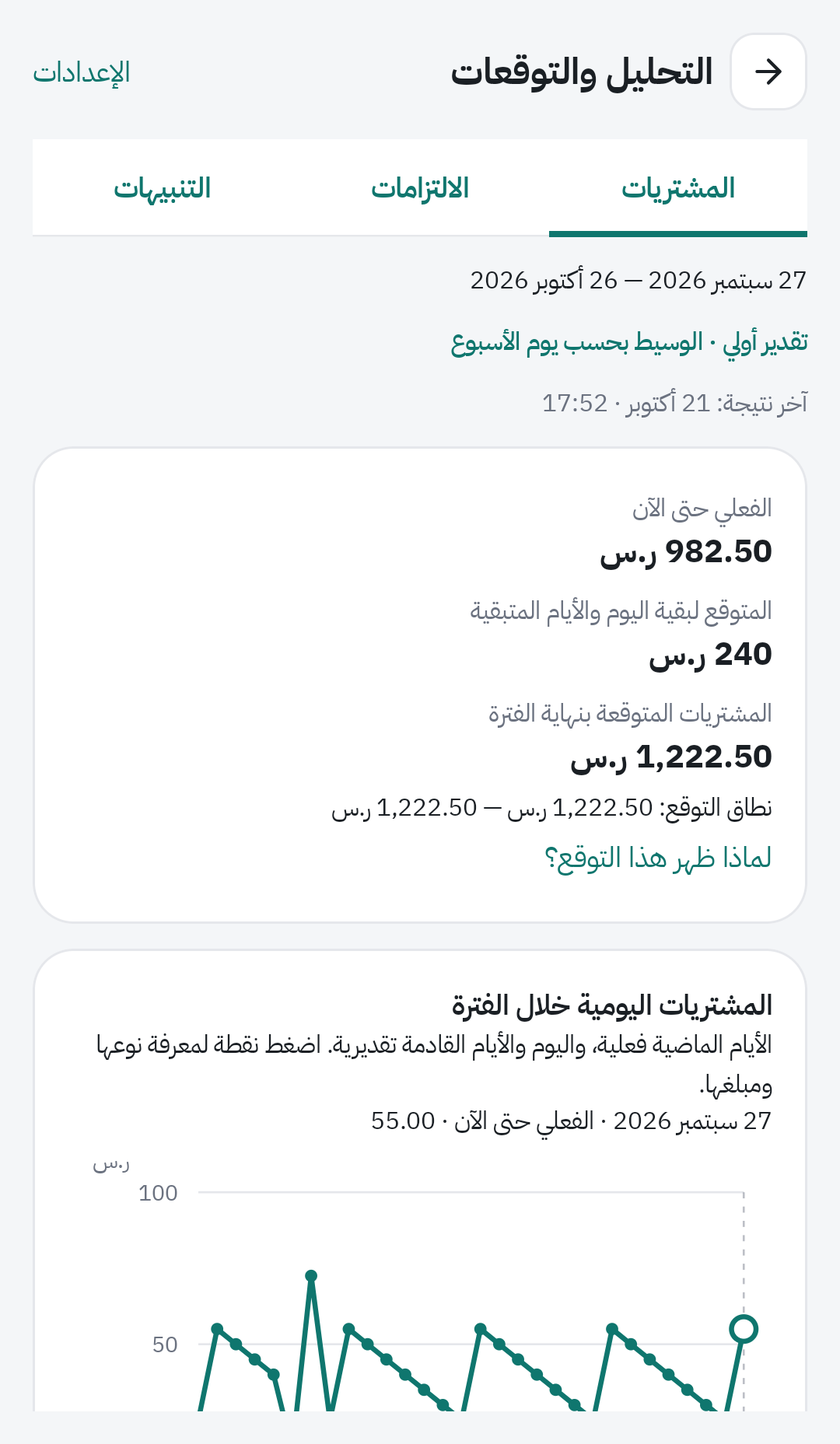
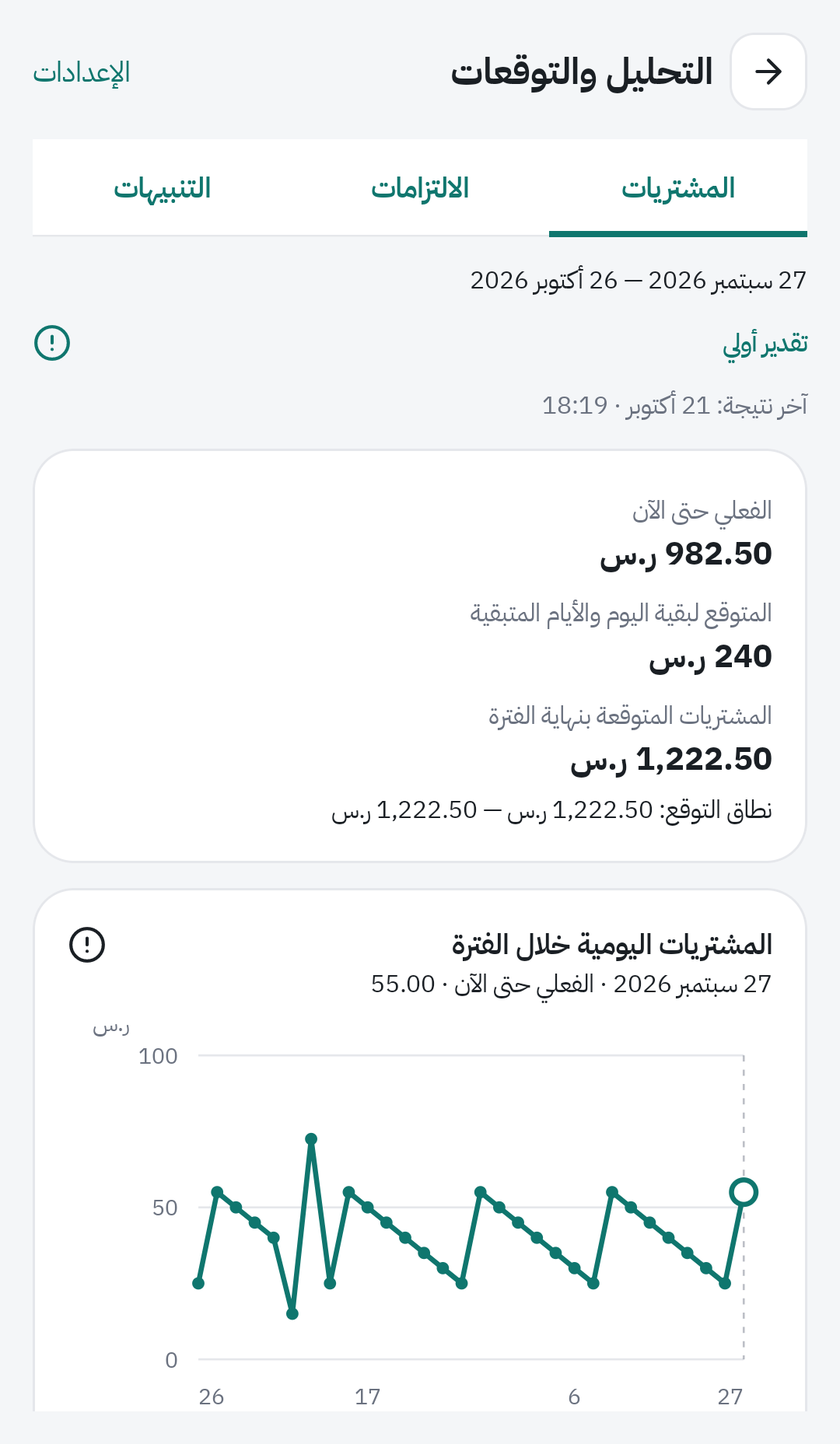
fix(lab): show forecast explanations as contextual help

diff --git a/lab/beta/src/replica/kotlin/com/baraa/masroof/lab/replica/presentation/analytics/LabAnalyticsScreen.kt b/lab/beta/src/replica/kotlin/com/baraa/masroof/lab/replica/presentation/analytics/LabAnalyticsScreen.kt
@@ -61,13 +61,21 @@ val LocalLabAnalyticsCardsEnabled = staticCompositionLocalOf { true }
 @Composable private fun Status(state: AnalysisUiState) {
     val label = when {
         state.unavailable -> R.string.lab_analysis_failed
+        state.snapshot == null -> R.string.lab_analysis_preparing
         state.updating -> R.string.lab_analysis_updating
         state.snapshot?.status != "READY" -> R.string.lab_analysis_insufficient
         state.snapshot.quality.blocked -> R.string.lab_analysis_quality_warning
         state.snapshot.method == "WEEKDAY_MEDIAN" -> R.string.lab_analysis_initial
         else -> R.string.lab_analysis_ready
     }
-    Text(stringResource(label), style = MaterialTheme.typography.labelMedium, color = MaterialTheme.colorScheme.primary)
+    val guidance = when (label) {
+        R.string.lab_analysis_insufficient -> R.string.lab_analysis_need_data
+        R.string.lab_analysis_initial, R.string.lab_analysis_ready -> R.string.lab_analysis_forecast_hint
+        R.string.lab_analysis_quality_warning -> R.string.lab_analysis_quality_hint
+        else -> null
+    }
+    MasroofGuidanceLabel(stringResource(label), guidance?.let { stringResource(it) },
+        style = MaterialTheme.typography.labelMedium, contentColor = MaterialTheme.colorScheme.primary)
     state.snapshot?.let { Text(stringResource(R.string.lab_analysis_updated, timestamp(it.issuedAt)),
         style = MaterialTheme.typography.bodySmall, color = MaterialTheme.colorScheme.onSurfaceVariant) }
 }
@@ -78,7 +86,6 @@ val LocalLabAnalyticsCardsEnabled = staticCompositionLocalOf { true }
     val scope = rememberCoroutineScope()
     val target by AnalyticsNavigation.target.collectAsState()
     var tab by rememberSaveable { mutableIntStateOf(if (target.isNullOrEmpty()) 0 else 2) }
-    var explanation by rememberSaveable { mutableStateOf(false) }
     var settings by rememberSaveable { mutableStateOf(false) }
     var editing by rememberSaveable { mutableStateOf<String?>(null) }
     var saving by remember { mutableStateOf(false) }
@@ -97,7 +104,7 @@ val LocalLabAnalyticsCardsEnabled = staticCompositionLocalOf { true }
         pendingTarget = null
     }
     BackHandler(enabled = !saving) {
-        when { editing != null -> editing = null; settings -> settings = false; explanation -> explanation = false; else -> onBack() }
+        when { editing != null -> editing = null; settings -> settings = false; else -> onBack() }
     }
     BackHandler(enabled = saving) { }
     val candidate = state.snapshot?.candidates?.firstOrNull { it.key == editing }
@@ -122,10 +129,6 @@ val LocalLabAnalyticsCardsEnabled = staticCompositionLocalOf { true }
         return
     }
     if (settings) { Preferences(workflow, state, onBack = { settings = false }); return }
-    if (explanation) {
-        Explanation(state, onBack = { explanation = false }, onOpenTransaction = onOpenTransaction)
-        return
-    }
     MasroofSecondaryScaffold(stringResource(R.string.lab_analysis_title), onBack,
         stringResource(R.string.lab_analysis_back), actions = {
             MasroofTextButton(onClick = { settings = true }) { Text(stringResource(R.string.lab_analysis_settings)) }
@@ -142,9 +145,9 @@ val LocalLabAnalyticsCardsEnabled = staticCompositionLocalOf { true }
                 Status(state)
                 if (state.unavailable) MasroofTextButton(onClick = workflow::request) { Text(stringResource(R.string.lab_replica_dashboard_retry)) }
                 when (tab) {
-                    0 -> Purchases(state, workflow, onWhy = { explanation = true })
+                    0 -> Purchases(state, workflow, onOpenTransaction)
                     1 -> {
-                        Text(stringResource(R.string.lab_analysis_commitments_hint), style = MaterialTheme.typography.bodySmall)
+                        MasroofGuidanceLabel(stringResource(R.string.lab_analysis_commitments), stringResource(R.string.lab_analysis_commitments_hint))
                         state.snapshot?.dues?.forEach { due ->
                             FocusAnalysisItem(focusedAlert == "due:${due.id}:${due.day}", { focusedAlert = null }) {
                             MasroofCard {
@@ -176,7 +179,7 @@ val LocalLabAnalyticsCardsEnabled = staticCompositionLocalOf { true }
                         }
                     }
                     else -> {
-                        Text(stringResource(R.string.lab_analysis_alerts_hint), style = MaterialTheme.typography.bodySmall)
+                        MasroofGuidanceLabel(stringResource(R.string.lab_analysis_alerts), stringResource(R.string.lab_analysis_alerts_hint))
                         if (state.alerts.isEmpty()) Text(stringResource(R.string.lab_analysis_no_alerts))
                         state.alerts.forEach { alert ->
                             FocusAnalysisItem(focusedAlert == alert.id, { focusedAlert = null }) {
@@ -230,27 +233,25 @@ val LocalLabAnalyticsCardsEnabled = staticCompositionLocalOf { true }
     return state.alerts.count { !it.read && it.snoozedUntil <= System.currentTimeMillis() }
 }
 
-@Composable private fun Purchases(state: AnalysisUiState, workflow: LabAnalyticsWorkflow, onWhy: () -> Unit) {
+@Composable private fun Purchases(state: AnalysisUiState, workflow: LabAnalyticsWorkflow, onOpenTransaction: (String) -> Unit) {
     val s = state.snapshot
-    MasroofCard {
+    if (s != null) MasroofCard {
         s?.let {
             Amount(stringResource(R.string.lab_analysis_actual), it.actual)
             it.remaining?.let { amount -> Amount(stringResource(R.string.lab_analysis_remaining), amount) }
             it.total?.let { amount -> Amount(stringResource(R.string.lab_analysis_expected_total), amount) }
             if (it.lower != null && it.upper != null) Text(stringResource(R.string.lab_analysis_range,
                 formatLocalizedMoney(analysisAmount(it.lower)), formatLocalizedMoney(analysisAmount(it.upper))), style = MaterialTheme.typography.bodySmall)
-            else Text(stringResource(R.string.lab_analysis_no_range), style = MaterialTheme.typography.bodySmall)
+            else if (it.total != null) MasroofGuidanceLabel(stringResource(R.string.lab_analysis_range_unavailable), stringResource(R.string.lab_analysis_no_range))
             if (state.preferences.budget != null) Amount(stringResource(R.string.lab_analysis_budget), state.preferences.budget)
             if (workflow.budgetStatus() == "NEAR") Text(stringResource(R.string.lab_analysis_near), color = MaterialTheme.colorScheme.primary)
         }
-        if (s?.total == null) Text(stringResource(R.string.lab_analysis_need_data))
-        MasroofTextButton(onClick = onWhy) { Text(stringResource(R.string.lab_analysis_why)) }
     }
     if (s != null) {
         val points = remember(s) { s.chart() }
         if (points.isNotEmpty()) MasroofCard {
-            Text(stringResource(R.string.lab_analysis_chart), style = MaterialTheme.typography.titleSmall)
-            Text(stringResource(R.string.lab_analysis_chart_hint), style = MaterialTheme.typography.bodySmall)
+            MasroofGuidanceLabel(stringResource(R.string.lab_analysis_chart), stringResource(R.string.lab_analysis_chart_hint),
+                style = MaterialTheme.typography.titleSmall, contentColor = MaterialTheme.colorScheme.onSurface)
             var selected by rememberSaveable(s.periodStart) { mutableIntStateOf(0) }
             val index = selected.coerceIn(points.indices)
             val labels = points.map { "${day(it.day)} · ${stringResource(if (it.expected) R.string.lab_analysis_estimated else R.string.lab_analysis_actual)} · ${it.amount}" }
@@ -261,13 +262,10 @@ val LocalLabAnalyticsCardsEnabled = staticCompositionLocalOf { true }
                 currencyLabel = stringResource(R.string.lab_analysis_sar))
         }
     }
-    MasroofCard {
-        Text(stringResource(R.string.lab_analysis_scope), style = MaterialTheme.typography.bodySmall)
-        Text(stringResource(R.string.lab_analysis_local), style = MaterialTheme.typography.bodySmall, color = MaterialTheme.colorScheme.onSurfaceVariant)
-    }
+    s?.let { DataQuality(it, onOpenTransaction) }
     if (state.history.isNotEmpty()) MasroofCard {
-        Text(stringResource(R.string.lab_analysis_history), style = MaterialTheme.typography.titleSmall)
-        Text(stringResource(R.string.lab_analysis_history_hint), style = MaterialTheme.typography.bodySmall)
+        MasroofGuidanceLabel(stringResource(R.string.lab_analysis_history), stringResource(R.string.lab_analysis_history_hint),
+            style = MaterialTheme.typography.titleSmall, contentColor = MaterialTheme.colorScheme.onSurface)
         state.history.take(8).forEach { past ->
             Text(timestamp(past.issuedAt), style = MaterialTheme.typography.bodySmall)
             past.total?.let { Amount(stringResource(R.string.lab_analysis_expected_total), it) }
@@ -276,46 +274,42 @@ val LocalLabAnalyticsCardsEnabled = staticCompositionLocalOf { true }
     }
 }
 
-@Composable private fun Explanation(state: AnalysisUiState, onBack: () -> Unit, onOpenTransaction: (String) -> Unit) {
-    MasroofSecondaryScaffold(stringResource(R.string.lab_analysis_why), onBack, stringResource(R.string.lab_analysis_back)) { modifier ->
-        Column(modifier.verticalScroll(rememberScrollState()), verticalArrangement = Arrangement.spacedBy(MasroofSpacing.sectionGap)) {
-            MasroofCard {
-                Text(stringResource(R.string.lab_analysis_models))
-                Text(stringResource(R.string.lab_analysis_inputs), style = MaterialTheme.typography.bodySmall)
-                Text(stringResource(R.string.lab_analysis_need_data), style = MaterialTheme.typography.bodySmall)
-                Text(stringResource(R.string.lab_analysis_scope), style = MaterialTheme.typography.bodySmall)
-            }
-            state.snapshot?.let { snapshot ->
-                MasroofCard {
-                    Text(stringResource(R.string.lab_analysis_quality), style = MaterialTheme.typography.titleSmall)
-                    Text(stringResource(R.string.lab_analysis_quality_counts, snapshot.quality.used, snapshot.quality.coveredDays, snapshot.completedPeriods, snapshot.quality.pendingReviews))
-                    if (snapshot.quality.historyFrom != null && snapshot.quality.historyThrough != null) Text(stringResource(R.string.lab_analysis_history_range,
-                        day(snapshot.quality.historyFrom), day(snapshot.quality.historyThrough)), style = MaterialTheme.typography.bodySmall)
-                    Text("${snapshot.engineVersion} · ${snapshot.cleaningVersion} · ${snapshot.featureVersion}", style = MaterialTheme.typography.bodySmall)
-                    if (!snapshot.quality.coverageKnown) Text(stringResource(R.string.lab_analysis_coverage_unknown))
-                    if (snapshot.quality.blocked) Text(stringResource(R.string.lab_analysis_quality_warning))
-                }
-                snapshot.quality.excluded.forEach { (reason, ids) ->
-                    MasroofCard {
-                        Text(stringResource(when (reason) {
-                            "OUTSIDE_PURCHASE_SCOPE" -> R.string.lab_analysis_excluded_scope
-                            "DUPLICATE_ID" -> R.string.lab_analysis_excluded_duplicate
-                            "FUTURE_DATE" -> R.string.lab_analysis_excluded_future
-                            else -> R.string.lab_analysis_excluded_amount
-                        }))
-                        var visible by rememberSaveable(reason) { mutableIntStateOf(20) }
-                        ids.take(visible).forEachIndexed { index, id -> MasroofTextButton(onClick = { onOpenTransaction(id) }) {
-                            Text(stringResource(R.string.lab_analysis_payment_number, index + 1))
-                        } }
-                        if (ids.size > visible) MasroofTextButton(onClick = { visible += 20 }) { Text(stringResource(R.string.lab_analysis_more)) }
-                    }
-                }
-                if (snapshot.quality.unusual.isNotEmpty()) MasroofCard {
-                    Text(stringResource(R.string.lab_analysis_unusual))
-                    snapshot.quality.unusual.forEachIndexed { i, id -> MasroofTextButton(onClick = { onOpenTransaction(id) }) {
-                        Text(stringResource(R.string.lab_analysis_payment_number, i + 1))
+@Composable private fun DataQuality(snapshot: AnalysisSnapshot, onOpenTransaction: (String) -> Unit) {
+    var expanded by rememberSaveable { mutableStateOf(false) }
+    MasroofCard {
+        MasroofGuidanceLabel(stringResource(R.string.lab_analysis_quality), stringResource(R.string.lab_analysis_quality_hint),
+            style = MaterialTheme.typography.titleSmall, contentColor = MaterialTheme.colorScheme.onSurface)
+        Text(stringResource(R.string.lab_analysis_quality_counts, snapshot.quality.used, snapshot.quality.coveredDays, snapshot.completedPeriods, snapshot.quality.pendingReviews),
+            style = MaterialTheme.typography.bodySmall)
+        MasroofTextButton(onClick = { expanded = !expanded }) {
+            Text(stringResource(if (expanded) R.string.lab_analysis_hide_data else R.string.lab_analysis_show_data))
+        }
+        if (expanded) {
+            MasroofGuidanceLabel(stringResource(R.string.lab_analysis_scope_title), stringResource(R.string.lab_analysis_scope))
+            if (snapshot.quality.historyFrom != null && snapshot.quality.historyThrough != null) Text(stringResource(R.string.lab_analysis_history_range,
+                day(snapshot.quality.historyFrom), day(snapshot.quality.historyThrough)), style = MaterialTheme.typography.bodySmall)
+            if (!snapshot.quality.coverageKnown) Text(stringResource(R.string.lab_analysis_coverage_unknown))
+            if (snapshot.quality.blocked) Text(stringResource(R.string.lab_analysis_quality_warning))
+            snapshot.quality.excluded.forEach { (reason, ids) ->
+                Column(verticalArrangement = Arrangement.spacedBy(MasroofSpacing.inlineGap)) {
+                    Text(stringResource(when (reason) {
+                        "OUTSIDE_PURCHASE_SCOPE" -> R.string.lab_analysis_excluded_scope
+                        "DUPLICATE_ID" -> R.string.lab_analysis_excluded_duplicate
+                        "FUTURE_DATE" -> R.string.lab_analysis_excluded_future
+                        else -> R.string.lab_analysis_excluded_amount
+                    }))
+                    var visible by rememberSaveable(reason) { mutableIntStateOf(20) }
+                    ids.take(visible).forEachIndexed { index, id -> MasroofTextButton(onClick = { onOpenTransaction(id) }) {
+                        Text(stringResource(R.string.lab_analysis_payment_number, index + 1))
                     } }
+                    if (ids.size > visible) MasroofTextButton(onClick = { visible += 20 }) { Text(stringResource(R.string.lab_analysis_more)) }
                 }
+            }
+            if (snapshot.quality.unusual.isNotEmpty()) Column(verticalArrangement = Arrangement.spacedBy(MasroofSpacing.inlineGap)) {
+                Text(stringResource(R.string.lab_analysis_unusual))
+                snapshot.quality.unusual.forEachIndexed { i, id -> MasroofTextButton(onClick = { onOpenTransaction(id) }) {
+                    Text(stringResource(R.string.lab_analysis_payment_number, i + 1))
+                } }
             }
         }
     }
@@ -340,10 +334,10 @@ val LocalLabAnalyticsCardsEnabled = staticCompositionLocalOf { true }
                 PreferenceToggle(stringResource(R.string.lab_analysis_budget_alert), draft.budgetAlerts, !saving) { draft = draft.copy(budgetAlerts = it) }
                 PreferenceToggle(stringResource(R.string.lab_analysis_due_alert), draft.dueAlerts, !saving) { draft = draft.copy(dueAlerts = it) }
                 PreferenceToggle(stringResource(R.string.lab_analysis_payment_alert), draft.paymentAlerts, !saving) { draft = draft.copy(paymentAlerts = it) }
-                PreferenceToggle(stringResource(R.string.lab_analysis_phone), draft.phone, !saving) { enabled ->
+                PreferenceToggle(stringResource(R.string.lab_analysis_phone), draft.phone, !saving,
+                    guidance = stringResource(R.string.lab_analysis_shadow)) { enabled ->
                     if (enabled && Build.VERSION.SDK_INT >= 33) launcher.launch(Manifest.permission.POST_NOTIFICATIONS) else draft = draft.copy(phone = enabled)
                 }
-                Text(stringResource(R.string.lab_analysis_shadow), style = MaterialTheme.typography.bodySmall)
                 if (denied) Text(stringResource(R.string.lab_analysis_permission_denied))
                 if (invalid) Text(stringResource(R.string.lab_analysis_invalid), color = MaterialTheme.colorScheme.error)
             }
@@ -363,9 +357,10 @@ val LocalLabAnalyticsCardsEnabled = staticCompositionLocalOf { true }
     }
 }
 
-@Composable private fun PreferenceToggle(title: String, checked: Boolean, enabled: Boolean, onChange: (Boolean) -> Unit) {
+@Composable private fun PreferenceToggle(title: String, checked: Boolean, enabled: Boolean, guidance: String? = null, onChange: (Boolean) -> Unit) {
     Row(Modifier.fillMaxWidth(), horizontalArrangement = Arrangement.spacedBy(MasroofSpacing.inlineGap)) {
-        Text(title, Modifier.weight(1f))
+        MasroofGuidanceLabel(title, guidance, Modifier.weight(1f), style = MaterialTheme.typography.bodyLarge,
+            contentColor = MaterialTheme.colorScheme.onSurface)
         Switch(checked, onChange, enabled = enabled)
     }
 }

diff --git a/lab/beta/src/replicaAndroidTest/kotlin/com/baraa/masroof/lab/beta/analytics/AnalyticsJourneyTest.kt b/lab/beta/src/replicaAndroidTest/kotlin/com/baraa/masroof/lab/beta/analytics/AnalyticsJourneyTest.kt
@@ -82,9 +82,20 @@ class AnalyticsJourneyTest {
                 compose.onNodeWithTag("lab-forecast-entry").assertIsDisplayed().performClick()
                 compose.onNodeWithText(text(R.string.lab_analysis_title, language)).assertIsDisplayed()
                 screen("$language-${if (isDark) "dark" else "light"}-purchases")
-                compose.onNodeWithText(text(R.string.lab_analysis_why, language)).performScrollTo().performClick()
-                screen("$language-${if (isDark) "dark" else "light"}-explanation")
-                compose.onNodeWithContentDescription(text(R.string.lab_analysis_back, language)).performClick()
+                compose.onNodeWithText(text(R.string.lab_analysis_need_data, language)).assertDoesNotExist()
+                val about = text(R.string.lab_replica_guidance_about, language).format(text(R.string.lab_analysis_initial, language))
+                compose.onNodeWithContentDescription(about).performClick()
+                compose.onNodeWithTag("guidance-popup").assertIsDisplayed()
+                compose.onNodeWithText(text(R.string.lab_analysis_forecast_hint, language)).assertIsDisplayed()
+                screen("$language-${if (isDark) "dark" else "light"}-forecast-help")
+                androidx.test.espresso.Espresso.pressBack()
+                compose.onNodeWithTag("guidance-popup").assertDoesNotExist()
+                compose.onNodeWithText(text(R.string.lab_analysis_title, language)).assertIsDisplayed()
+                compose.onNodeWithText(text(R.string.lab_analysis_show_data, language)).performScrollTo().performClick()
+                compose.onNodeWithText(text(R.string.lab_analysis_scope_title, language)).performScrollTo().assertIsDisplayed()
+                screen("$language-${if (isDark) "dark" else "light"}-data-details")
+                compose.onNodeWithText(text(R.string.lab_analysis_hide_data, language)).performScrollTo().performClick()
+                compose.onNodeWithText(text(R.string.lab_analysis_scope_title, language)).assertDoesNotExist()
                 compose.onNodeWithText(text(R.string.lab_analysis_settings, language)).performClick()
                 screen("$language-${if (isDark) "dark" else "light"}-settings")
                 compose.onNodeWithText(text(R.string.lab_analysis_cancel, language)).performScrollTo().performClick()
@@ -193,6 +204,12 @@ class AnalyticsJourneyTest {
     private fun screen(name: String) {
         compose.waitForIdle()
         val directory = File(host.getExternalFilesDir(null), "analytics-screens").apply { mkdirs() }
-        File(directory, "$name.png").outputStream().use { compose.onRoot().captureToImage().asAndroidBitmap().compress(Bitmap.CompressFormat.PNG, 100, it) }
+        val bitmap = if (compose.onAllNodesWithTag("guidance-popup").fetchSemanticsNodes().isNotEmpty()) {
+            instrument.waitForIdleSync()
+            // The popup has its own Android window; wait for its first rendered frame.
+            android.os.SystemClock.sleep(200)
+            requireNotNull(instrument.uiAutomation.takeScreenshot())
+        } else compose.onRoot().captureToImage().asAndroidBitmap()
+        File(directory, "$name.png").outputStream().use { bitmap.compress(Bitmap.CompressFormat.PNG, 100, it) }
     }
 }

diff --git a/lab/beta/src/replicaAndroidTest/kotlin/com/baraa/masroof/lab/beta/replica/ReplicaSetupJourneyTest.kt b/lab/beta/src/replicaAndroidTest/kotlin/com/baraa/masroof/lab/beta/replica/ReplicaSetupJourneyTest.kt
@@ -103,6 +103,13 @@ class ReplicaSetupJourneyTest {
             screenshot("03b-dashboard-forecast-entry")
             compose.onNodeWithTag("lab-forecast-entry").performClick()
             compose.onNodeWithText(text(R.string.lab_analysis_title)).assertIsDisplayed()
+            compose.onNodeWithText(text(R.string.lab_analysis_need_data)).assertDoesNotExist()
+            compose.onNodeWithContentDescription(host.getString(R.string.lab_replica_guidance_about,
+                text(R.string.lab_analysis_insufficient))).performClick()
+            compose.onNodeWithText(text(R.string.lab_analysis_need_data)).assertIsDisplayed()
+            androidx.test.espresso.Espresso.pressBack()
+            compose.onNodeWithTag("guidance-popup").assertDoesNotExist()
+            compose.onNodeWithText(text(R.string.lab_analysis_insufficient)).assertIsDisplayed()
             screenshot("03c-analysis-opened-from-home")
             androidx.test.espresso.Espresso.pressBack()
             compose.onNodeWithTag("lab-forecast-entry").performScrollTo().assertIsDisplayed()

diff --git a/lab/beta/evidence/analytics/README.md b/lab/beta/evidence/analytics/README.md
@@ -8,7 +8,7 @@
 - اختبارات JVM: **167 ناجحًا، دون فشل أو تخطي**: 21 في `ml-assist` و146 في `beta`. تشمل 12 اختبارًا للمحرك الجديد و9 للتخزين والتنبيهات والاستعادة.
 - عقد توليد نسخة التطبيق: **8 اختبارات ناجحة**. مصادر `app/` و`ui-kit/` ومخططا المالية 18 وتعلم الرسائل 1 دون تعديل.
 - اختبارات Android: **4 ناجحة** على محاكي Android API 34، من أصناف `AnalyticsJourneyTest` و`ReplicaSetupJourneyTest` و`ReplicaStorageRecoveryTest`. النتيجة الأصلية في [native-tests.txt](native-tests.txt).
-- أُعيدت رحلة الرئيسية بعد إضافة تحقق مباشر من الضغط على البطاقة وفتح التحليل والرجوع ومتابعة التنقل؛ نجحت في [home-entry-test.txt](home-entry-test.txt).
+- تشمل رحلة الرئيسية الضغط على البطاقة وفتح التحليل والرجوع ومتابعة التنقل. وتتحقق من ظهور نقص البيانات مباشرة واختفاء شرحه حتى الضغط على أيقونة التعجب.
 
 تشمل الرحلات مطابقة المشتريات بالرسم الحالي، العملات والاستردادات، التصحيح والحذف، التبويبات والتفسير، حفظ وإلغاء التفضيلات، محرر الالتزام الحالي وإلغاء الحفظ ومنع التكرار، رفض إذن الهاتف مع بقاء التنبيه داخل التطبيق، وجهة التنبيه، صافي استردادات سالب، وإعادة فتح البيانات. وتشمل النسخ المشفر وكلمة المرور الخاطئة والاستعادة وحفظ الملف المالي التالف حتى إعادة ضبط المختبر صراحةً.
 
@@ -16,7 +16,13 @@
 
 ## المظهر
 
-الصور في [screens](screens/) تشمل العربية والإنجليزية والفاتح والداكن؛ الإنجليزية بحجم خط 1.3. تم فحص المشتريات والالتزامات والتنبيهات والتفسير والإعدادات والمحرر والصافي السالب بصريًا. تستخدم الواجهة مكونات مصروف الحالية.
+الصور في [screens](screens/) تشمل العربية والإنجليزية والفاتح والداكن؛ الإنجليزية بحجم خط 1.3. تستخدم الواجهة مكونات مصروف الحالية.
+
+الحالات الضرورية مثل عدم كفاية البيانات ظاهرة مباشرة. الشرح المختصر يظهر عند الضغط على أيقونة التعجب الموحدة ويُغلق بالرجوع أو الضغط خارجها. أُزيلت صفحة «لماذا ظهر هذا التوقع؟»، وتبقى جودة البيانات ومراجع الاستبعادات في قسم قابل للتوسيع داخل تبويب المشتريات. لا تتغير الحسابات أو قواعد البيانات بهذا التعديل.
+
+تتحقق رحلة التحليل من فتح الشرح وإغلاقه بالرجوع دون مغادرة الصفحة، ومن توسيع تفاصيل البيانات وإخفائها، في اللغتين والوضعين ومع الخط الأكبر.
+
+أُعيدت رحلة التحليل بنجاح لتوثيق نافذة المعلومات بعد رسمها وتفاصيل البيانات بعد التمرير إليها؛ النتيجة في [contextual-help-test.txt](contextual-help-test.txt). مثال: [الشرح المختصر بالعربية](screens/ar-light-forecast-help.png).
 
 مسار الدخول الفعلي: [البطاقة في الرئيسية](screens/home-with-forecast-card.png) ثم [صفحة التحليل المفتوحة منها](screens/analysis-opened-from-home.png). بيانات هذه الرحلة قصيرة، لذلك تظهر حالة عدم كفاية البيانات؛ صور رحلات التحليل الأخرى تستخدم سجلًا اصطناعيًا أطول لعرض التوقع الجاهز.
 
@@ -26,10 +32,10 @@
 
 | الحالة | وسيط الزمن |
 |---|---:|
-| البطاقة مخفية | 125.5 مللي ثانية |
-| البطاقة ظاهرة | 132.5 مللي ثانية |
+| البطاقة مخفية | 120 مللي ثانية |
+| البطاقة ظاهرة | 129 مللي ثانية |
 
-الفارق المقاس 7 مللي ثانية، بعينة صغيرة على محاكي؛ لا يُعمم كحد أداء للأجهزة الفعلية. القيم الخام في [home-render-times.txt](home-render-times.txt). التدريب والتجميع يعملان خارج مسار العرض، وتحرر القراءة معاملة القاعدة المالية قبل الحساب.
+الفارق المقاس 9 مللي ثانية، بعينة صغيرة على محاكي؛ لا يُعمم كحد أداء للأجهزة الفعلية. القيم الخام في [home-render-times.txt](home-render-times.txt). التدريب والتجميع يعملان خارج مسار العرض، وتحرر القراءة معاملة القاعدة المالية قبل الحساب.
 
 ## حدود التحقق
 

diff --git a/lab/ANALYTICS_IMPLEMENTATION_AR.md b/lab/ANALYTICS_IMPLEMENTATION_AR.md
@@ -2,7 +2,7 @@
 
 ## الدخول والنطاق
 
-من التطبيق الحالي: الإعدادات ← إعدادات المطور ← مختبر مصروف، ثم بطاقة **توقعات هذه الفترة** في الرئيسية، بعد ملخص المصاريف وقبل الرسم. الصفحة تضم المشتريات والالتزامات والتنبيهات، وتفاصيل «لماذا ظهر هذا التوقع؟». يمكن الدخول إلى التنبيهات أيضًا من مركز التنبيهات الحالي.
+من التطبيق الحالي: الإعدادات ← إعدادات المطور ← مختبر مصروف، ثم بطاقة **توقعات هذه الفترة** في الرئيسية، بعد ملخص المصاريف وقبل الرسم. الصفحة تضم المشتريات والالتزامات والتنبيهات. تظهر الحالات الضرورية مثل نقص البيانات مباشرة، ويُفتح الشرح المختصر من أيقونة التعجب الموحدة بجانب المعلومة. تفاصيل جودة البيانات ومراجع الحركات قابلة للتوسيع داخل تبويب المشتريات، دون صفحة شرح منفصلة. يمكن الدخول إلى التنبيهات أيضًا من مركز التنبيهات الحالي.
 
 الشعار والخط والألوان والبطاقات والأرقام والرسم ومحرر الالتزامات هي مكونات مصروف الحالية. الإضافات تحت `lab/` فقط؛ ملف `analytics.json` يحدد روابط التوليد المضافة، ويُراجع ويُقفل ببصمة المصدر. لا توجد تعديلات على مصادر `app/` أو `ui-kit/`.
 
